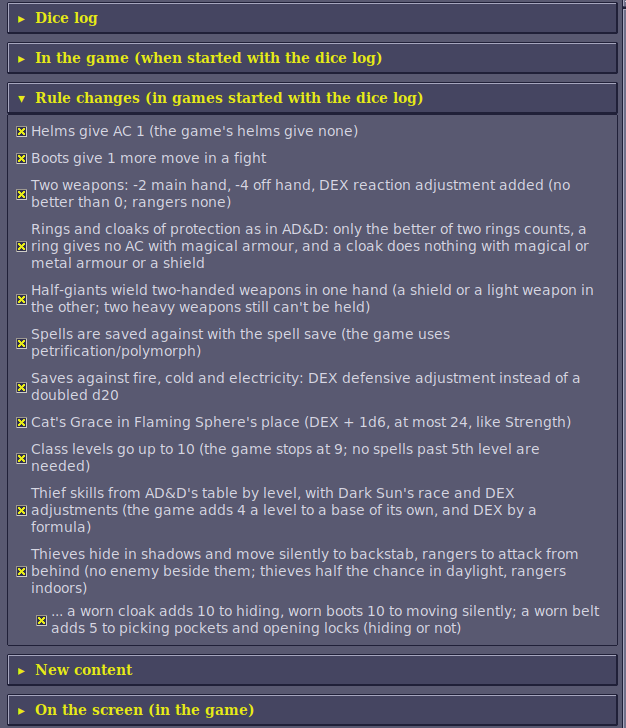
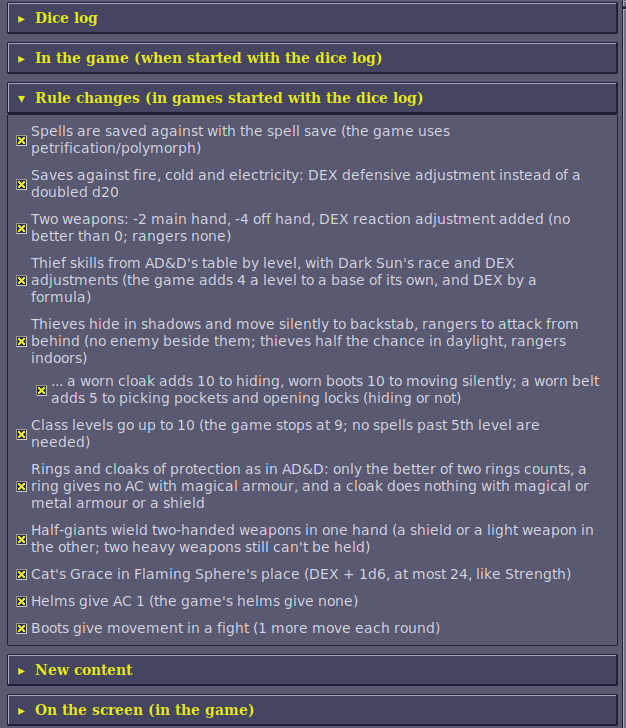
Options tab: rule changes in the README's order; boots give movement in a fight
The worn gear switch stays under hiding in shadows. docs/options.png
retaken.

Claude-Session: https://claude.ai/code/session_01BNiWkhyZSJPYsN3zRrweVp

Changed region(s): [[0.0, 0.1511, 0.9712, 0.8764]]

diff --git a/darksun-companion/dscompanion/viewer.py b/darksun-companion/dscompanion/viewer.py
@@ -324,33 +324,35 @@ class Viewer:
         rules = section("rules", "Rule changes (in games started with the dice log)")
         # one switch for each of game.RULE_SETTINGS
         self.rule_vars: Dict[str, tk.BooleanVar] = {}
+        self.stealth_gear = tk.BooleanVar(value=settings.get("stealth_gear", True) is not False)
+        # (in the order the README's Rule changes has them: the ones that change most first)
         for n, (key, text) in enumerate((
-                ("helm_ac", "Helms give AC 1 (the game's helms give none)"),
-                ("boots_move", "Boots give 1 more move in a fight"),
+                ("spell_save", "Spells are saved against with the spell save (the game uses "
+                               "petrification/polymorph)"),
+                ("no_doubled_save", "Saves against fire, cold and electricity: DEX defensive adjustment "
+                                    "instead of a doubled d20"),
                 ("two_weapons", "Two weapons: -2 main hand, -4 off hand, DEX reaction adjustment added "
                                 "(no better than 0; rangers none)"),
+                ("thief_table", "Thief skills from AD&D's table by level, with Dark Sun's race and DEX adjustments "
+                                "(the game adds 4 a level to a base of its own, and DEX by a formula)"),
+                ("stealth", "Thieves hide in shadows and move silently to backstab, rangers to attack from behind "
+                            "(no enemy beside them; thieves half the chance in daylight, rangers indoors)"),
+                ("level_10", "Class levels go up to 10 (the game stops at 9; no spells past 5th level are needed)"),
                 ("protection_rules", "Rings and cloaks of protection as in AD&D: only the better of two rings "
                                      "counts, a ring gives no AC with magical armour, and a cloak does nothing "
                                      "with magical or metal armour or a shield"),
                 ("half_giant_hands", "Half-giants wield two-handed weapons in one hand (a shield or a light "
                                      "weapon in the other; two heavy weapons still can't be held)"),
-                ("spell_save", "Spells are saved against with the spell save (the game uses "
-                               "petrification/polymorph)"),
-                ("no_doubled_save", "Saves against fire, cold and electricity: DEX defensive adjustment "
-                                    "instead of a doubled d20"),
                 ("cats_grace", "Cat's Grace in Flaming Sphere's place (DEX + 1d6, at most 24, like Strength)"),
-                ("level_10", "Class levels go up to 10 (the game stops at 9; no spells past 5th level are needed)"),
-                ("thief_table", "Thief skills from AD&D's table by level, with Dark Sun's race and DEX adjustments "
-                                "(the game adds 4 a level to a base of its own, and DEX by a formula)"),
-                ("stealth", "Thieves hide in shadows and move silently to backstab, rangers to attack from behind "
-                            "(no enemy beside them; thieves half the chance in daylight, rangers indoors)"))):
+                ("helm_ac", "Helms give AC 1 (the game's helms give none)"),
+                ("boots_move", "Boots give movement in a fight (1 more move each round)"))):
             self.rule_vars[key] = tk.BooleanVar(value=bool(settings.get(key, True)))
             ttk.Checkbutton(rules, text=text, variable=self.rule_vars[key],
                             command=self._popups_changed).pack(anchor="w", pady=(4 if n else 0, 0))
-        self.stealth_gear = tk.BooleanVar(value=settings.get("stealth_gear", True) is not False)
-        ttk.Checkbutton(rules, text="... a worn cloak adds 10 to hiding, worn boots 10 to moving silently; "
-                                    "a worn belt adds 5 to picking pockets and opening locks (hiding or not)",
-                        variable=self.stealth_gear, command=self._popups_changed).pack(anchor="w", padx=(20, 0))
+            if key == "stealth":  # (under it: what worn gear adds)
+                ttk.Checkbutton(rules, text="... a worn cloak adds 10 to hiding, worn boots 10 to moving silently; "
+                                            "a worn belt adds 5 to picking pockets and opening locks (hiding or not)",
+                                variable=self.stealth_gear, command=self._popups_changed).pack(anchor="w", padx=(20, 0))
 
         # the companion's own content: people, a quest and items in the game, and thief play. Some
         # are written into the game's files when it is started; what a save already has stays

diff --git a/darksun-companion/README.md b/darksun-companion/README.md
@@ -424,10 +424,10 @@ sections are open is remembered. The sections:
 - **Dice log**: unlabelled rolls, and the details behind each roll.
 - **In the game**: each turn's rolls and how much they say, monster
   descriptions.
-- **Rule changes**: helms, boots, two weapons, rings and cloaks of
-  protection, half-giants' two-handed weapons, the spell save, doubled saves, Cat's Grace, levels up to 10, the
-  thief skill table, hiding in shadows (and under it, a worn cloak's, boots'
-  and belt's bonuses).
+- **Rule changes**: the spell save, doubled saves, two weapons, the thief
+  skill table, hiding in shadows (and under it, a worn cloak's, boots' and
+  belt's bonuses), levels up to 10, rings and cloaks of protection,
+  half-giants' two-handed weapons, Cat's Grace, helms and boots.
 - **New content**: Kalzith, Semyon, the cooked vulture, the slave pens' gear,
   Kreenfang and Shadowseeker, the Ring +1, picking pockets, and a button that
   gives each thief a set of Thieves' Tools now. Kalzith, Semyon, the vulture
@@ -1727,7 +1727,7 @@ any armour.
 
 ### Boots give movement in a fight
 
-With **Boots give 1 more move in a fight** ticked, whoever wears boots
+With **Boots give movement in a fight** ticked, whoever wears boots
 (Leather Boots, Serpent Boots: anything on the feet) gets 1 more move each
 round of a fight (13 rather than 12, say; Haste and Slow still double and
 halve it). The game sets each round's movement when it rolls initiative, so
